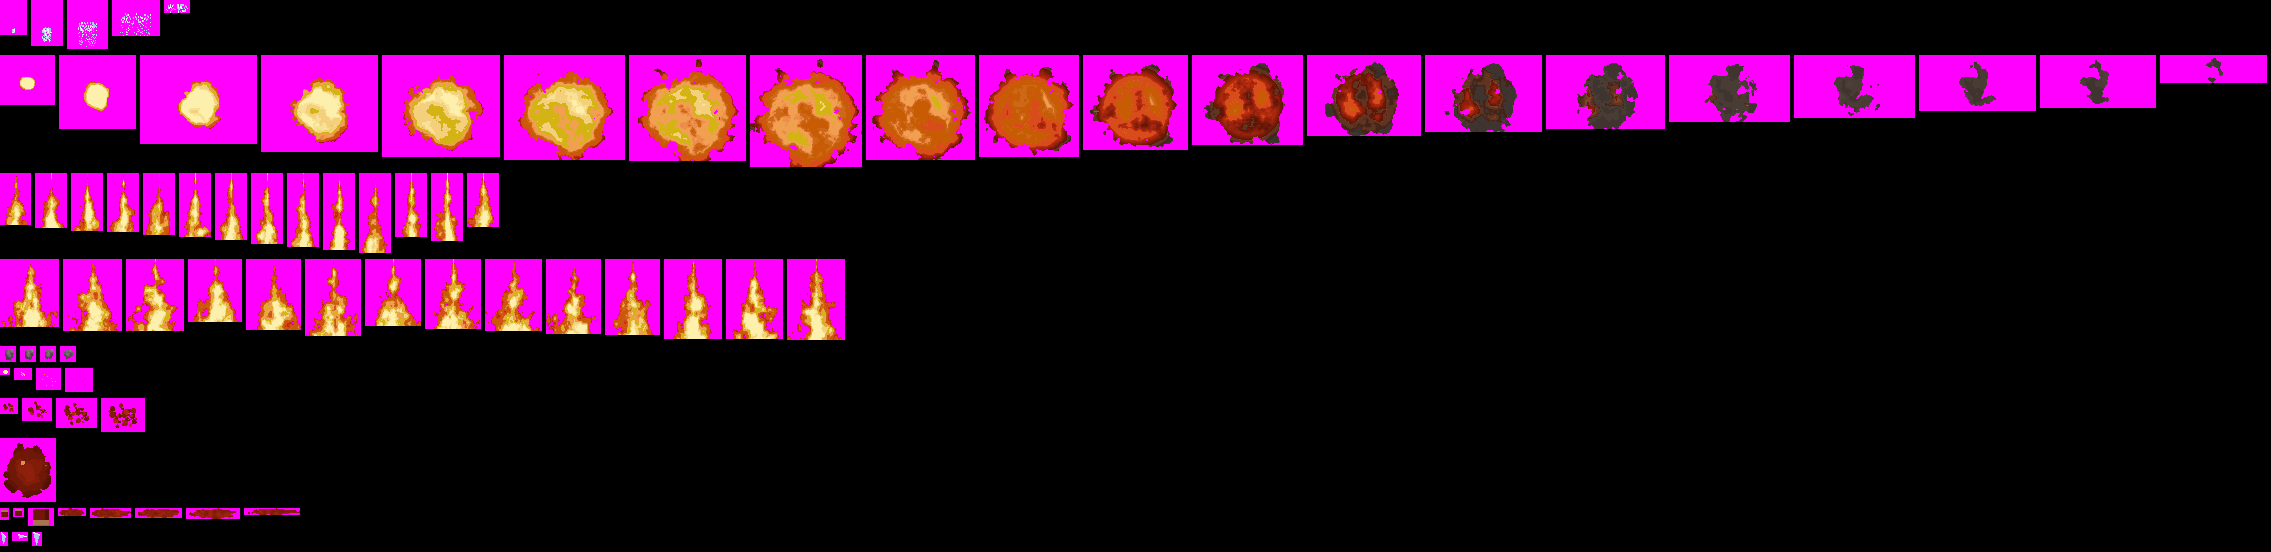
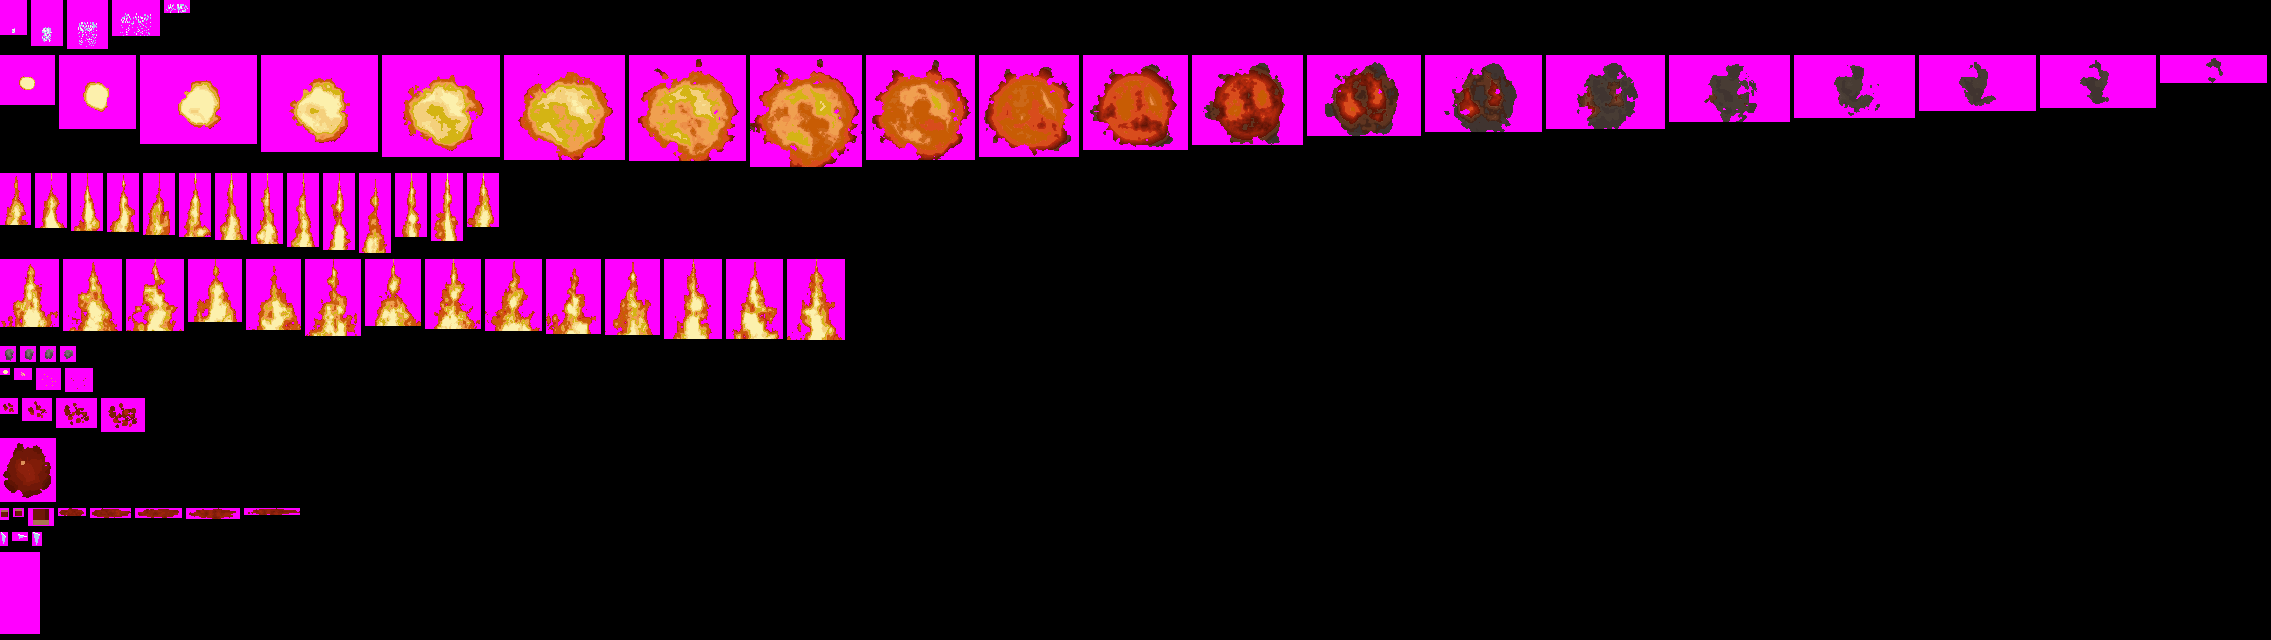
Fix the player floating up in the GRP-free build: the player's own sprite tile (1405) had no art, so it was zero high and the engine stood the player on top of it, every tic; it's now an invisible tile at the original's size. emine_where also prints ground/jetpack/water/floor state

Changed region(s): [[0.0, 0.0, 1.0, 1.0]]

diff --git a/tools/mkfx.py b/tools/mkfx.py
@@ -30,6 +30,8 @@ EFFECTS = [
     (1226, 1, 'pool'),        # BLOODPOOL: where a mob died
     (2286, 8, 'gibs'),        # JIBS6: a chunk flies (0), lands and splats wider (1-7); the engine steps the frames
     (1031, 3, 'glass'),       # GLASSPIECES: shards of a broken glass block
+    (1405, 1, 'blank'),       # APLAYER: the player's own sprite. Never seen, but the engine takes the player's height
+                              # from it: with no tile it's zero high, the player stands on top of it and rises forever
 ]
 
 
@@ -249,8 +251,13 @@ def glass(w, h, k, n, seed=81):
     return rgb, (a | edge).astype(float), np.zeros((h, w), bool)
 
 
+def blank(w, h, k, n):
+    """Fully transparent, at the original's size and offsets."""
+    return np.zeros((h, w, 3)), np.zeros((h, w)), np.zeros((h, w), bool)
+
+
 KINDS = {'explosion': explosion, 'flame': flame, 'flame2': lambda w, h, k, n: flame(w, h, k, n, seed=13, width=0.46),
-         'smoke': smoke, 'spark': spark, 'splash': splash, 'blood': blood, 'pool': pool, 'gibs': gibs, 'glass': glass}
+         'smoke': smoke, 'spark': spark, 'splash': splash, 'blood': blood, 'pool': pool, 'gibs': gibs, 'glass': glass, 'blank': blank}
 
 
 def main():

diff --git a/tools/mkworld.py b/tools/mkworld.py
@@ -444,7 +444,7 @@ def write_textures():
     for f in (2324, 2521, 2528, 2570, 2613, 37, 40, 44, 47, 49, 26, 51, 54, 2605, 42, 2510):  # then ammo pickups, pipe bomb, HUD icons, rocket, devastator
         lines.append('artfile { file "textures/weapons_%d.art" }' % f)
     lines.append("// fire, explosions, smoke, bullet sparks, water splashes, blood, gibs, glass: drawn procedurally (tools/mkfx.py)")
-    for f in (1380, 1890, 2270, 2310, 2329, 2595, 1620, 1226, 2286, 1031):
+    for f in (1380, 1890, 2270, 2310, 2329, 2595, 1620, 1226, 2286, 1031, 1405):
         lines.append('artfile { file "textures/fx_%d.art" }' % f)
     lines.append('// sprites (monsters etc.): generated by tools/mksprite.py from art/sprites.json')
     lines.append('include "sprites.def"')

diff --git a/engine/source/duke3d/src/emine.cpp b/engine/source/duke3d/src/emine.cpp
@@ -448,6 +448,9 @@ void Emine_Tick(void)
         auto at = [&](int32_t dz) { return voxworld_blockat(p->pos.x, p->pos.y, p->pos.z + dz); };
         OSD_Printf("emine_where: x %d y %d z %d vel %d  eye %d body %d feet %d  pal %d air %d\n", p->pos.x, p->pos.y, p->pos.z,
                    p->vel.z, at(0), at(EMINE_SWIMPOINT), at(PHEIGHT - 256), p->palette, p->airleft);
+        OSD_Printf("emine_where: ground %d jetpack %d scuba %d lotag %d floorz %d truefz %d gravity %d spritez %d\n", p->on_ground,
+                   p->jetpack_on, p->scuba_on, p->cursectnum >= 0 ? sector[p->cursectnum].lotag : -1, actor[p->i].floorz, p->truefz,
+                   g_spriteGravity, sprite[p->i].z);
     }
 }
 
